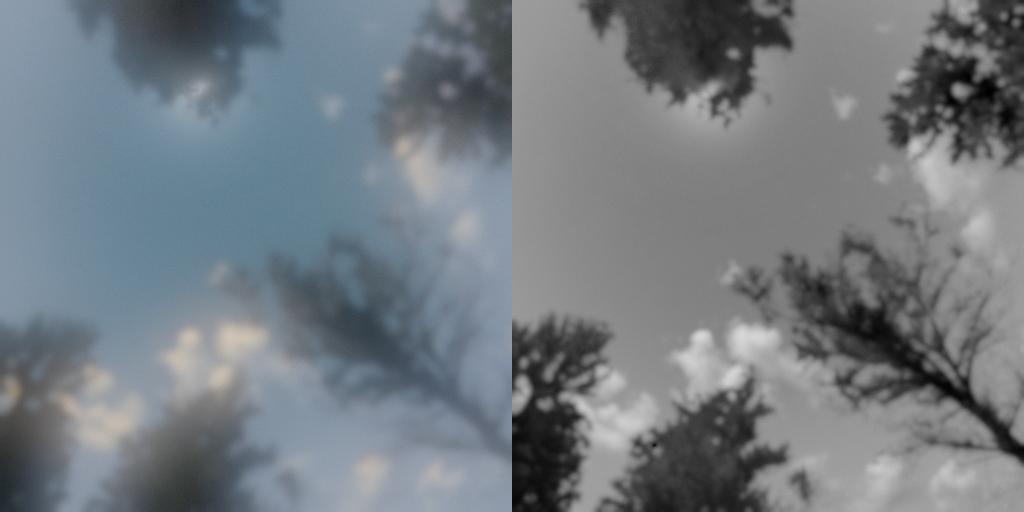
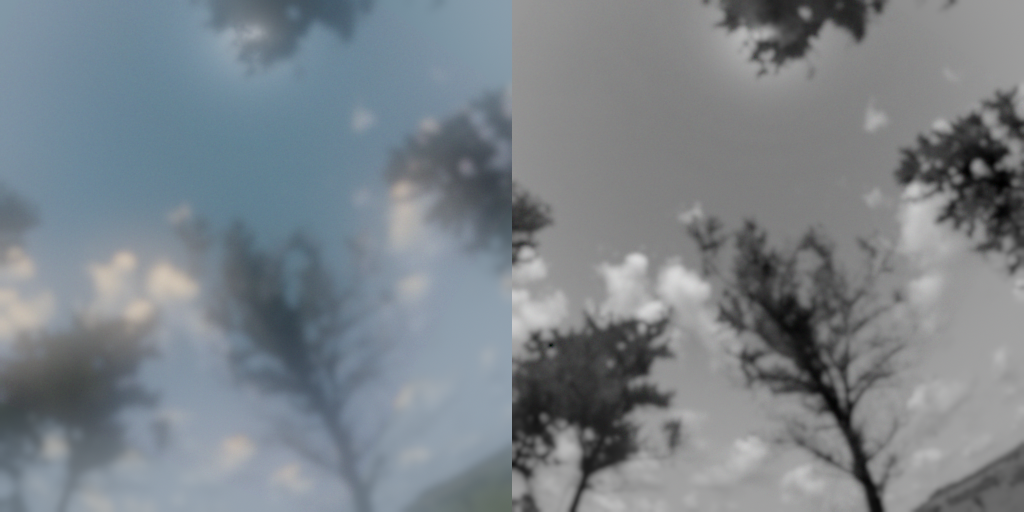
Lab: climb overexpose round 1
Claude-Session: https://claude.ai/code/session_01RqENhngNCzDFmJWDZueXGV

diff --git a/tools/depth/bakes/overexpose/reaim.py b/tools/depth/bakes/overexpose/reaim.py
@@ -1,0 +1,215 @@
+# The worm's-eye camera re-aimed at the cumulus (runs on the shipped bake, then
+# foliage.py's and cumulus.py's solves are run again through the new camera).
+#
+# At the old aim (yaw 150, pitch +76, roll -10) the frame looked almost straight
+# up: the upper-left and centre (about 40% of the print) were empty cobalt and
+# the cumulus were small puffs pushed to the right and bottom edges, so the
+# overexposure had almost no cloud in the middle of the frame to act on. Here the
+# camera is turned about 28 deg towards the lower-right bank and lowered to
+# +66 deg (deepen.YAW / PITCH, the roll kept): the open cobalt shrinks to a band
+# overhead, the diagonal pine stands up with its trunk converging on the zenith,
+# and the banks fill the lower half of the square.
+#
+# Every pass so far is a function of the direction on the sky (the dome field is
+# of zenith angle alone, the hidden sun's aureole of the angle from it), so the
+# shipped bake is carried over exactly: each pixel of the new frame is a ray, and
+# where that ray fell inside the old frame its scene, sky-hold key, ink and matte
+# are resampled from there (Lanczos, log-encoded codes). Where it did not (the
+# low sky the new aim reveals, about a fifth of the square, mostly at the
+# bottom and right) the plate starts as the clean dome field (polarise.py's dome
+# and crown.py's aureole, with foliage.dome's low-order fit) times grain matched
+# to the photograph's, and the pines and cumulus are then solved there, and
+# everywhere else, from the 8k HDR's own radiance through the new camera by
+# foliage.foliage() and cumulus.cumulus(), exactly as they were solved before.
+# The hidden sun keeps its direction (deepen.U / V are its new frame position),
+# so crown.py's crown and glow carry over untouched. The old foliage.py STRIP
+# (a smeared strip at the old right edge, already rebuilt) is not rebuilt again.
+#
+# At pitch +66 the frame's lowest corner dips a few degrees under the horizon
+# and shows the far hillside (about 1% of the square, at the lower right). It
+# is laid in the pines' ink layer at full coverage, its own radiance taken down
+# by the same gain as the needles, so it prints as a dark distant ridge at 0 EV
+# and opens to its own green as the exposure lifts the shadows, as the trees do.
+#
+# Last, the optics: what the old optics held beyond a blur of the old visible
+# scene (the disc's veil around the hidden sun, beyond the encoding) is carried
+# over by the same resampling, and the blurs are rebaked from the new visible scene.
+#
+#   python3 reaim.py <scene.webp> <trees.webp> <optics.png> <tree_lined_driveway_8k.hdr> [out_dir]
+# (pass copies of the old-aim files; the 3x render is cached beside the HDR)
+import sys, os; sys.path.insert(0, os.path.dirname(os.path.abspath(__file__)))
+import numpy as np
+import cv2
+from PIL import Image
+from scipy import ndimage as ndi
+import bake_wormseye as bw
+import deepen
+import polarise
+import crown
+import foliage
+import cumulus
+import sunburst
+import canopy
+import wormseye_lib as wlib
+
+LUMA = np.array([0.2126, 0.7152, 0.0722])
+OLD = (150.0, 76.0, -10.0, 0.3906, 0.1706)   # yaw, pitch, roll, hidden sun U, V of the old aim
+FEATHER_PX = 10                              # the carried-over bake fades into the new plate over this band inside the old frame's edge
+GROUND_EL = 10.0                             # elevation (deg) under which the HDR may be ground
+GROUND_BG = -0.1                             # ... where it is green: log2 B/G under this, joined to what is under the horizon
+
+def smooth(a, lo, hi):
+    t = np.clip((a - lo) / (hi - lo), 0, 1)
+    return t * t * (3 - 2 * t)
+
+def cam_dir(R, u, v):
+    a = np.radians(deepen.FOV) / 2
+    X, Y = 2 * u - 1, 2 * v - 1
+    r = np.hypot(X, Y); th = 2 * np.arctan(r * np.tan(a / 2)); ph = np.arctan2(-Y, X)
+    return R @ np.array([np.sin(th) * np.cos(ph), np.sin(th) * np.sin(ph), np.cos(th)])
+
+def to_frame(dw, R):
+    """World directions -> (u, v) in 0..1 of a frame with camera rotation R, and the angle off its axis."""
+    dc = dw @ R
+    th = np.arccos(np.clip(dc[..., 2], -1, 1)); ph = np.arctan2(dc[..., 1], dc[..., 0])
+    r = np.tan(th / 2) / np.tan(np.radians(deepen.FOV) / 4)
+    return (r * np.cos(ph) + 1) / 2, (-r * np.sin(ph) + 1) / 2, np.degrees(th)
+
+def new_sun():
+    """The hidden sun's direction (old aim) in the new frame."""
+    s = cam_dir(wlib.rot(*OLD[:3]), OLD[3], OLD[4])
+    u, v, _ = to_frame(s, wlib.rot(deepen.YAW, deepen.PITCH, deepen.ROLL))
+    return float(u), float(v)
+
+def remap_maps(n):
+    """For each pixel of the new frame (n x n), its position in the old frame (px), and whether it lies inside."""
+    R0 = wlib.rot(*OLD[:3]); R1 = wlib.rot(deepen.YAW, deepen.PITCH, deepen.ROLL)
+    dw = wlib.rays(n, deepen.FOV, 'stereo') @ R1.T
+    u, v, th = to_frame(dw, R0)
+    mx = (u * n - 0.5).astype(np.float32); my = (v * n - 0.5).astype(np.float32)
+    inside = (mx >= 0) & (mx <= n - 1) & (my >= 0) & (my <= n - 1) & (th < 120)
+    # distance (px, in the new frame) from the old frame's edge, inside it
+    dist = ndi.distance_transform_edt(inside)
+    # local magnification: old px per new px
+    gy, gx = np.gradient(mx), np.gradient(my)
+    return mx, my, inside, dist, gy, gx
+
+def warp(a, mx, my, interp=cv2.INTER_LANCZOS4):
+    a = np.asarray(a, np.float32)
+    if a.ndim == 2:
+        return cv2.remap(a, mx, my, interp, borderMode=cv2.BORDER_REFLECT)
+    return np.stack([cv2.remap(a[..., c], mx, my, interp, borderMode=cv2.BORDER_REFLECT) for c in range(a.shape[-1])], -1)
+
+def ground(raw, gain):
+    """The far hillside under the horizon: matte from the HDR, ink at the needles' gain."""
+    R1 = wlib.rot(deepen.YAW, deepen.PITCH, deepen.ROLL)
+    dw = wlib.rays(raw.shape[0], deepen.FOV, 'stereo') @ R1.T
+    el = np.degrees(np.arcsin(np.clip(dw[..., 1], -1, 1)))
+    # worked on a reflected margin, so the morphology does not pull the matte off the frame's edge
+    P = 8
+    raw0 = raw
+    raw = np.pad(raw, ((P, P), (P, P), (0, 0)), mode='reflect'); el = np.pad(el, P, mode='reflect')
+    # grass, scrub and the treeline on the ridge are green (blue under green); sky and cloud are not
+    bg = np.log2(np.maximum(raw[..., 2], 1e-6) / np.maximum(raw[..., 1], 1e-6))
+    core = (bg < GROUND_BG) & (el < GROUND_EL)
+    lab, _ = ndi.label(core)
+    keep = np.isin(lab, np.unique(lab[el < -0.5])) & (lab > 0)
+    keep = ndi.binary_fill_holes(ndi.binary_closing(keep, iterations=2))
+    m = np.maximum(keep * 1.0, 0) * (1 - smooth(bg, GROUND_BG - 0.15, GROUND_BG + 0.15))
+    m = np.maximum(m, ndi.binary_erosion(keep, iterations=2) * 1.0)
+    m = ndi.gaussian_filter(m * ndi.binary_dilation(keep, iterations=1), 0.6)[P:-P, P:-P]
+    I = raw0 * gain
+    Y = np.maximum(I @ LUMA, 1e-6)[..., None]
+    chroma = (1 - foliage.INK_COOL) * I / Y + foliage.INK_COOL * canopy.COOL
+    return np.clip(m, 0, 1), np.clip(Y * chroma, 2.0 ** bw.LO, 2.0 ** bw.HI)
+
+def main():
+    s = np.asarray(Image.open(sys.argv[1]).convert('RGBA')); t = np.asarray(Image.open(sys.argv[2]).convert('RGBA'))
+    g8 = np.asarray(Image.open(sys.argv[3]).convert('RGB'))
+    hdr = sys.argv[4]; od = sys.argv[5] if len(sys.argv) > 5 else bw.OUT
+    n = s.shape[0]
+    old_pix = bw.dec_log(s[..., :3]); old_a8 = s[..., 3].astype(float)
+    old_ink = bw.dec_log(t[..., :3]); old_ta = t[..., 3] / 255.0
+    # the old optics' own extra light (beyond a blur of what was seen), at 512
+    vis_old = old_pix * (1 - old_ta[..., None]) + old_ink * old_ta[..., None]
+    extra = bw.dec_log(g8) - bw.optics(vis_old)
+    old_grain_pix = old_pix.copy()
+
+    # the new aim (deepen.py holds it); the hidden sun keeps its direction
+    U, V = new_sun()
+    print('hidden sun in the new frame: U %.4f V %.4f (deepen.py should read the same: %.4f %.4f)' % (U, V, deepen.U, deepen.V))
+    deepen.U, deepen.V = U, V
+    mx, my, inside, dist, gy, gx = remap_maps(n)
+    mag = np.sqrt(np.abs(gy[1] * gx[0] - gy[0] * gx[1]))
+    print('carried over %.3f of the frame; old px per new px %.2f-%.2f (median %.2f)' % (
+        inside.mean(), mag[inside].min(), mag[inside].max(), np.median(mag[inside])))
+
+    # 1. carry the bake over (log codes, so the interpolation is in log light)
+    sc = warp(s[..., :3].astype(np.float32), mx, my)
+    pix = bw.dec_log(np.clip(sc, 0, 255))
+    a8 = np.clip(warp(old_a8, mx, my), 0, 255)
+    ink = bw.dec_log(np.clip(warp(t[..., :3].astype(np.float32), mx, my), 0, 255))
+    ta = np.clip(warp(old_ta, mx, my), 0, 1)
+
+    # 2. the revealed sky: the clean dome field times the photograph's grain
+    elev, g = deepen.geometry()
+    T = polarise.sky_field(90.0 - elev)
+    N = T + crown.aureole(T, g)
+    rng = np.random.default_rng(61)
+    G = foliage.grain(old_grain_pix, (n, n), rng)        # measured on the old frame's open sky (foliage.GRAIN_BOX)
+    w_in = smooth(dist, 1.0, FEATHER_PX)[..., None] * inside[..., None]
+    key_glow = 3 + 252 * (1 - sunburst.KEY_A * np.exp(-g / sunburst.KEY_DEG))
+    fill = N * G
+    pix = w_in * pix + (1 - w_in) * fill
+    a8 = w_in[..., 0] * a8 + (1 - w_in[..., 0]) * key_glow
+    ta = ta * w_in[..., 0]
+    # the dome's low-order fit on the new frame, then the fill again with it
+    D, _ = foliage.dome(pix, np.round(a8).astype(np.uint8), ~(w_in[..., 0] > 0.99), g, np.zeros((n, n)))
+    pix = w_in * pix + (1 - w_in) * D * G
+    a8 = np.clip(np.round(a8), 0, 255).astype(np.uint8)
+
+    # 3. the pines and the cumulus solved again from the HDR through the new camera
+    foliage.STRIP = (0, 0, 0, 0, 1)
+    grain0 = foliage.grain
+    foliage.grain = lambda p, shape, r: grain0(old_grain_pix, shape, r)   # measured on the old frame's open sky
+    raw = foliage.render(hdr)
+    rng = np.random.default_rng(41)
+    plate, a8f, I, a, diag = foliage.foliage(pix, a8, ink, ta, raw, rng)
+    # the hillside under the horizon, at the needles' gain
+    solid = (diag['a'] > 0.92) & (ta > 0.99)
+    gain = np.exp(np.median(np.log(np.maximum(I[solid] @ LUMA, 1e-6))) - np.median(np.log(np.maximum(raw[solid] @ LUMA, 1e-6))))
+    gm, gI = ground(raw, gain)
+    print('ground: %.4f of frame, ink gain %.2f stops' % (float((gm > 0.5).mean()), np.log2(gain)))
+    I = gm[..., None] * gI + (1 - gm[..., None]) * I
+    a = np.maximum(a, gm)
+    rng = np.random.default_rng(53)
+    out, a8n, cdiag = cumulus.cumulus(plate, a8f, a, raw, rng)
+    out = np.clip(out, 2.0 ** bw.LO, 2.0 ** bw.HI)
+
+    # 4. optics: the blurs of the new visible scene, plus the old extra light carried over
+    vis = out * (1 - a[..., None]) + I * a[..., None]
+    S = 512; k = n // S
+    ex_d = warp(extra[:, :S], mx[::k, ::k] / k, my[::k, ::k] / k, cv2.INTER_LINEAR)
+    ex_h = warp(extra[:, S:], mx[::k, ::k] / k, my[::k, ::k] / k, cv2.INTER_LINEAR)
+    w_s = cv2.resize(w_in[..., 0].astype(np.float32), (S, S), interpolation=cv2.INTER_AREA)[..., None]
+    ex = np.concatenate([ex_d * w_s, ex_h * w_s], 1)
+    glow = np.maximum(bw.optics(vis) + ex, 2.0 ** bw.LO)
+
+    rng = np.random.default_rng(67)
+    inside_m = a > 0
+    idx = ndi.distance_transform_edt(~inside_m, return_distances=False, return_indices=True)
+    ink8 = bw.enc_log(I, rng)[idx[0], idx[1]]
+    a8m = np.clip(np.round(a * 255), 0, 255).astype(np.uint8)
+    Image.fromarray(np.dstack([bw.enc_log(out, rng), a8n]), 'RGBA').save(
+        os.path.join(od, 'scene.webp'), 'WEBP', quality=95, alpha_quality=100, method=6, exact=True, use_sharp_yuv=True)
+    Image.fromarray(np.dstack([ink8, a8m]), 'RGBA').save(
+        os.path.join(od, 'trees.webp'), 'WEBP', quality=92, alpha_quality=100, method=6, exact=True)
+    Image.fromarray(bw.enc_log(glow, rng), 'RGB').save(os.path.join(od, 'optics.png'), optimize=True)
+    for f in ('scene.webp', 'trees.webp', 'optics.png'):
+        print(f, os.path.getsize(os.path.join(od, f)) // 1024, 'KB')
+    if len(sys.argv) > 5:
+        v = np.stack([diag['a'], cdiag['d'], w_in[..., 0]], -1)
+        Image.fromarray((np.clip(v, 0, 1) * 255).astype(np.uint8)).save(os.path.join(od, 'reaim_diag.png'))
+
+if __name__ == '__main__':
+    main()

diff --git a/tools/depth/bakes/overexpose/bake_wormseye.py b/tools/depth/bakes/overexpose/bake_wormseye.py
@@ -13,6 +13,10 @@
 #                (the pines re-keyed from the HDR's own radiance: soft coverage matte + real needle light -> trees.webp; plate and right-edge strip rebuilt)
 #     && python3 cumulus.py <copy of scene.webp> <copy of trees.webp> <copy of optics.png> <tree_lined_driveway_8k.hdr>
 #                (the cumulus re-solved from the 3x render: per-pixel depth matte, the photograph's luminance above lobe scale, clouds.py's shade below it)
+#     && python3 reaim.py <copy of scene.webp> <copy of trees.webp> <copy of optics.png> <tree_lined_driveway_8k.hdr>
+#                (once: the camera re-aimed at the cumulus, yaw 150 / pitch +76 -> yaw 178 / pitch +66; the bake carried over by
+#                 ray, the revealed low sky filled, pines and cumulus solved again from the HDR through the new camera.
+#                 deepen.py now holds the new aim; every pass above ran at the old one, reaim.OLD)
 # (OE_WORK holds the 8k caches). bake.py is the earlier rectilinear bake, kept for reference.
 import numpy as np, io, os, sys
 from PIL import Image

diff --git a/tools/depth/bakes/overexpose/deepen.py b/tools/depth/bakes/overexpose/deepen.py
@@ -39,8 +39,10 @@ from scipy import ndimage as ndi
 import wormseye_lib as wlib
 import bake_wormseye as bw
 
-YAW, PITCH, FOV, ROLL, SIZE = 150.0, 76.0, 116.0, -10.0, 1536   # the worm's-eye crop, unchanged
-U, V = 0.3906, 0.1706                                             # the new sun (resun.py)
+YAW, PITCH, FOV, ROLL, SIZE = 178.0, 66.0, 116.0, -10.0, 1536   # the worm's-eye crop, re-aimed at the cumulus by reaim.py
+U, V = 0.4973, 0.0625                                             # the hidden sun (resun.py's direction) in that frame
+# (every pass up to cumulus.py ran at the old aim, yaw 150, pitch +76, the hidden sun at U, V = 0.3906, 0.1706;
+#  reaim.OLD keeps it. Re-running an earlier pass needs those values back.)
 LUMA = np.array([0.2126, 0.7152, 0.0722])
 ZEN = np.array([0.072, 0.142, 0.235])      # open sky overhead; prints #2f6fc0 at 0 EV
 EDGE = np.array([0.2, 0.37, 0.54])        # open sky ~5 deg above the horizon: paler, as low sky is
